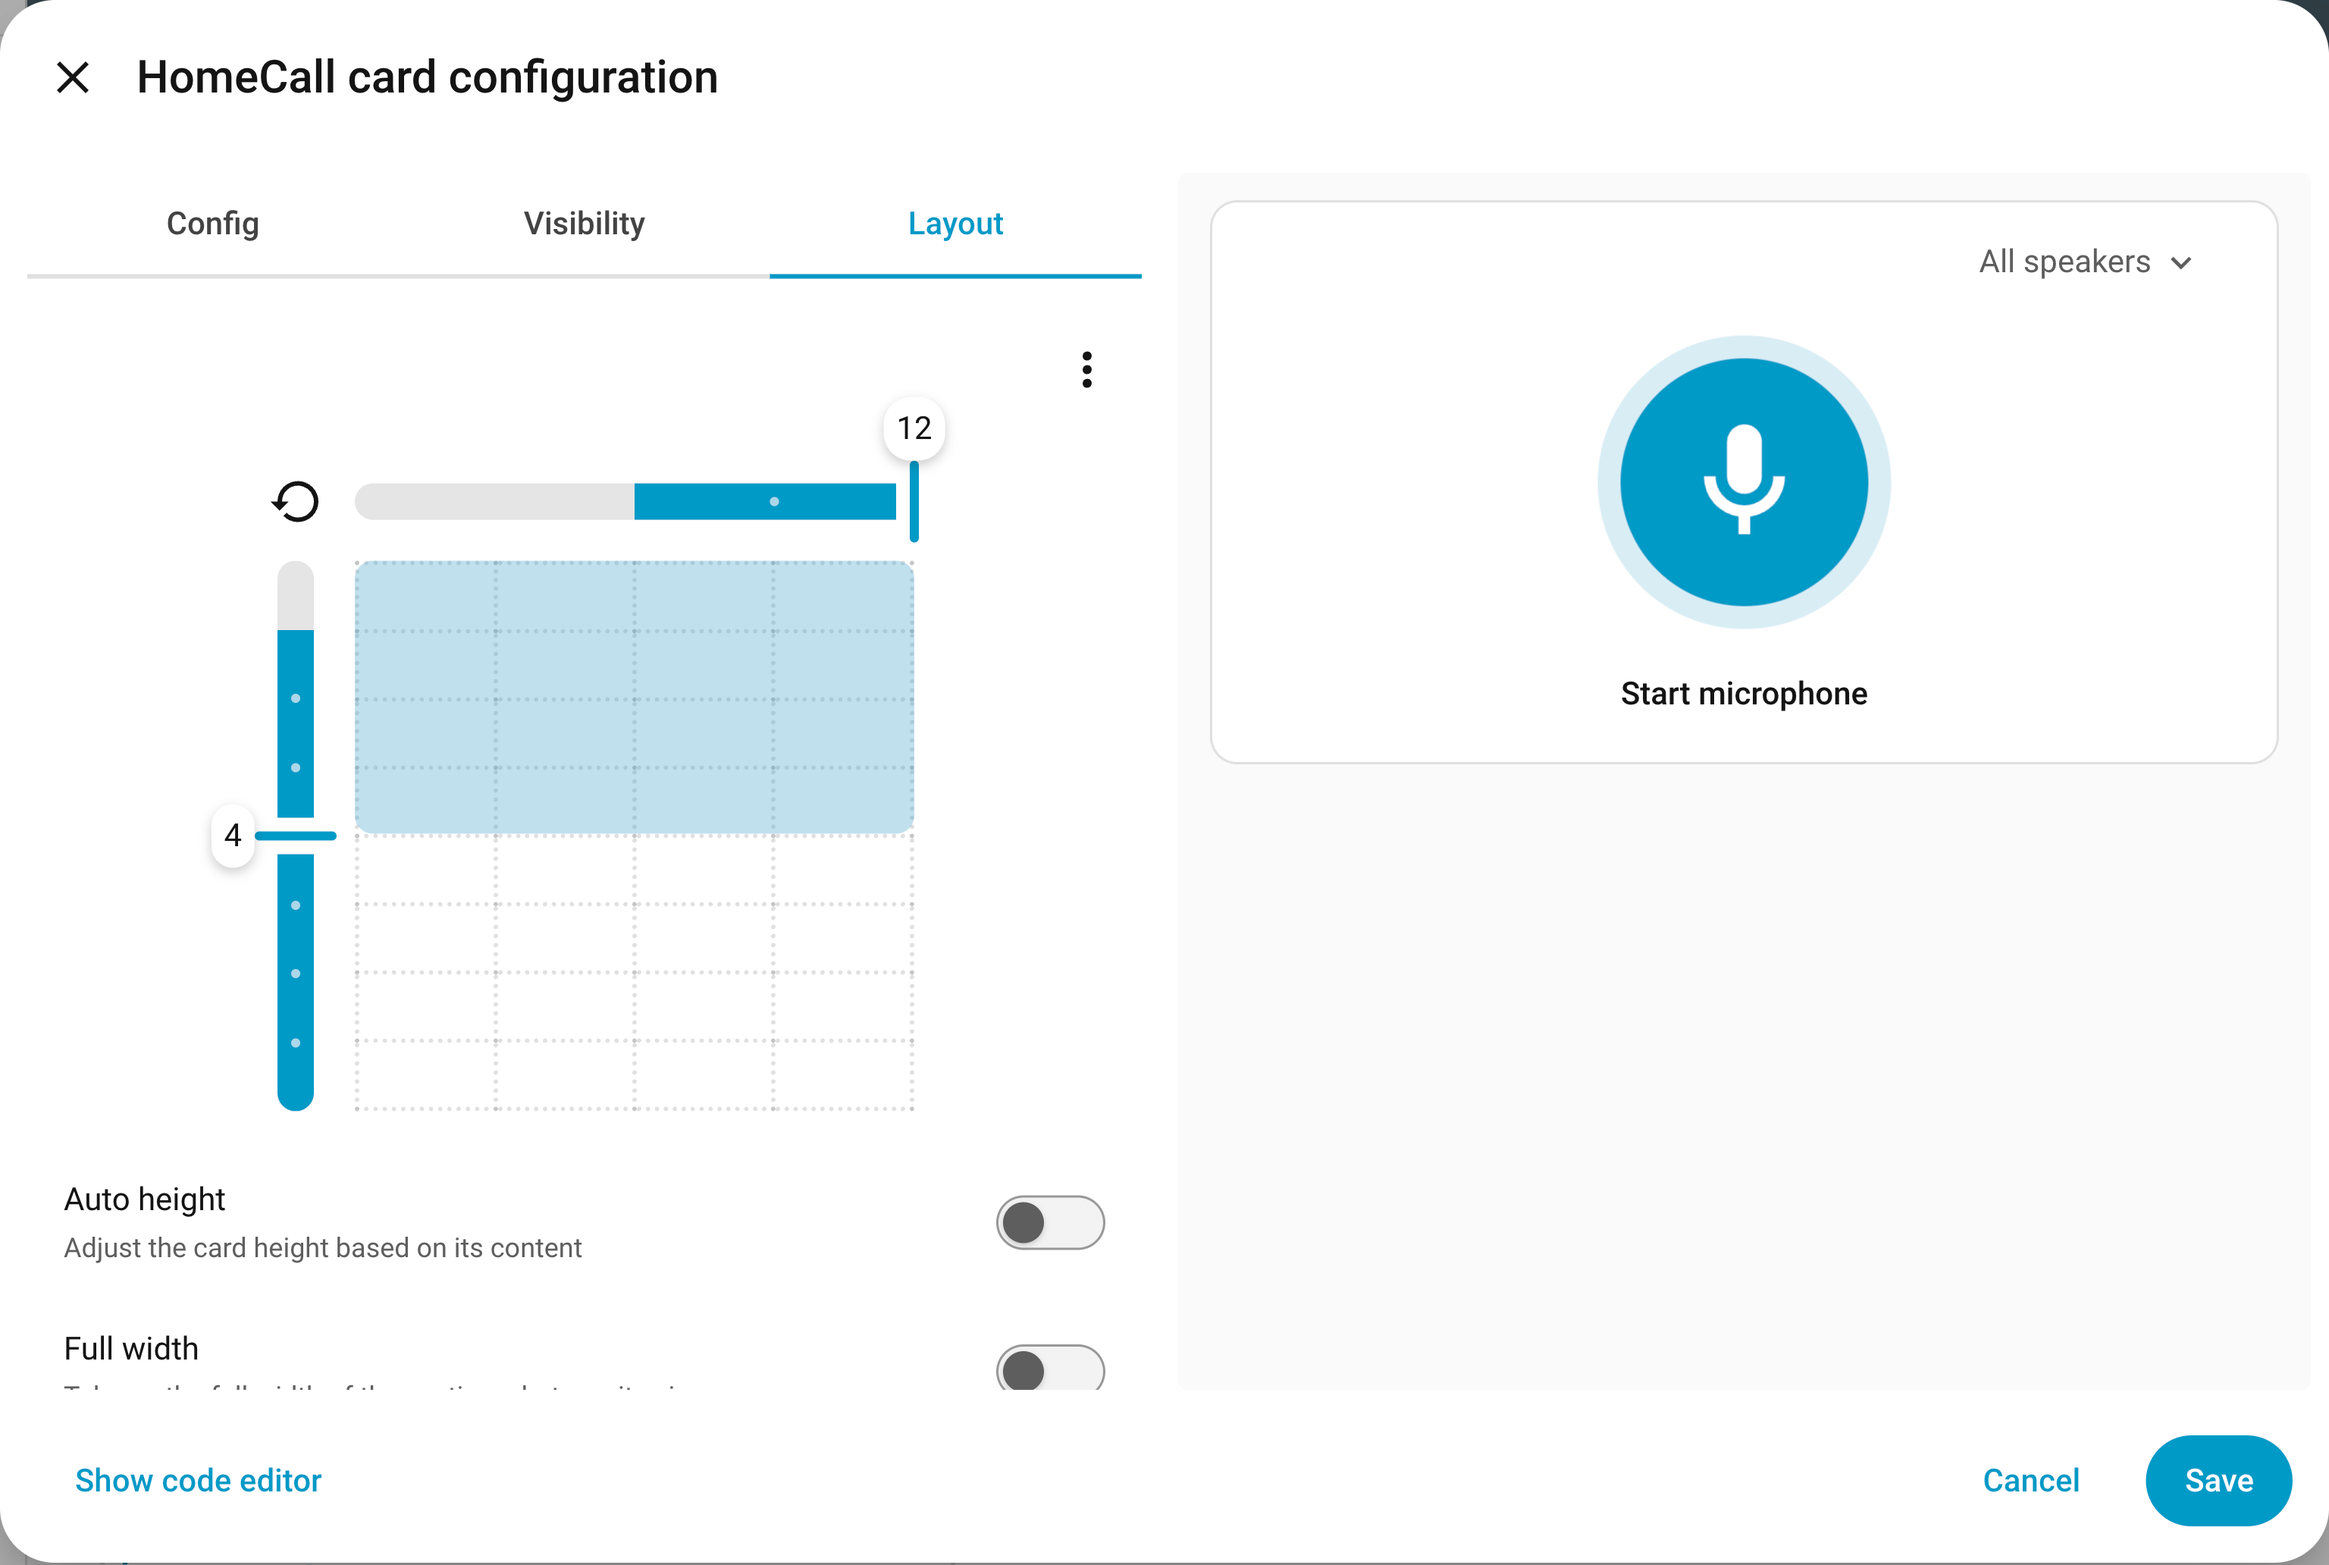
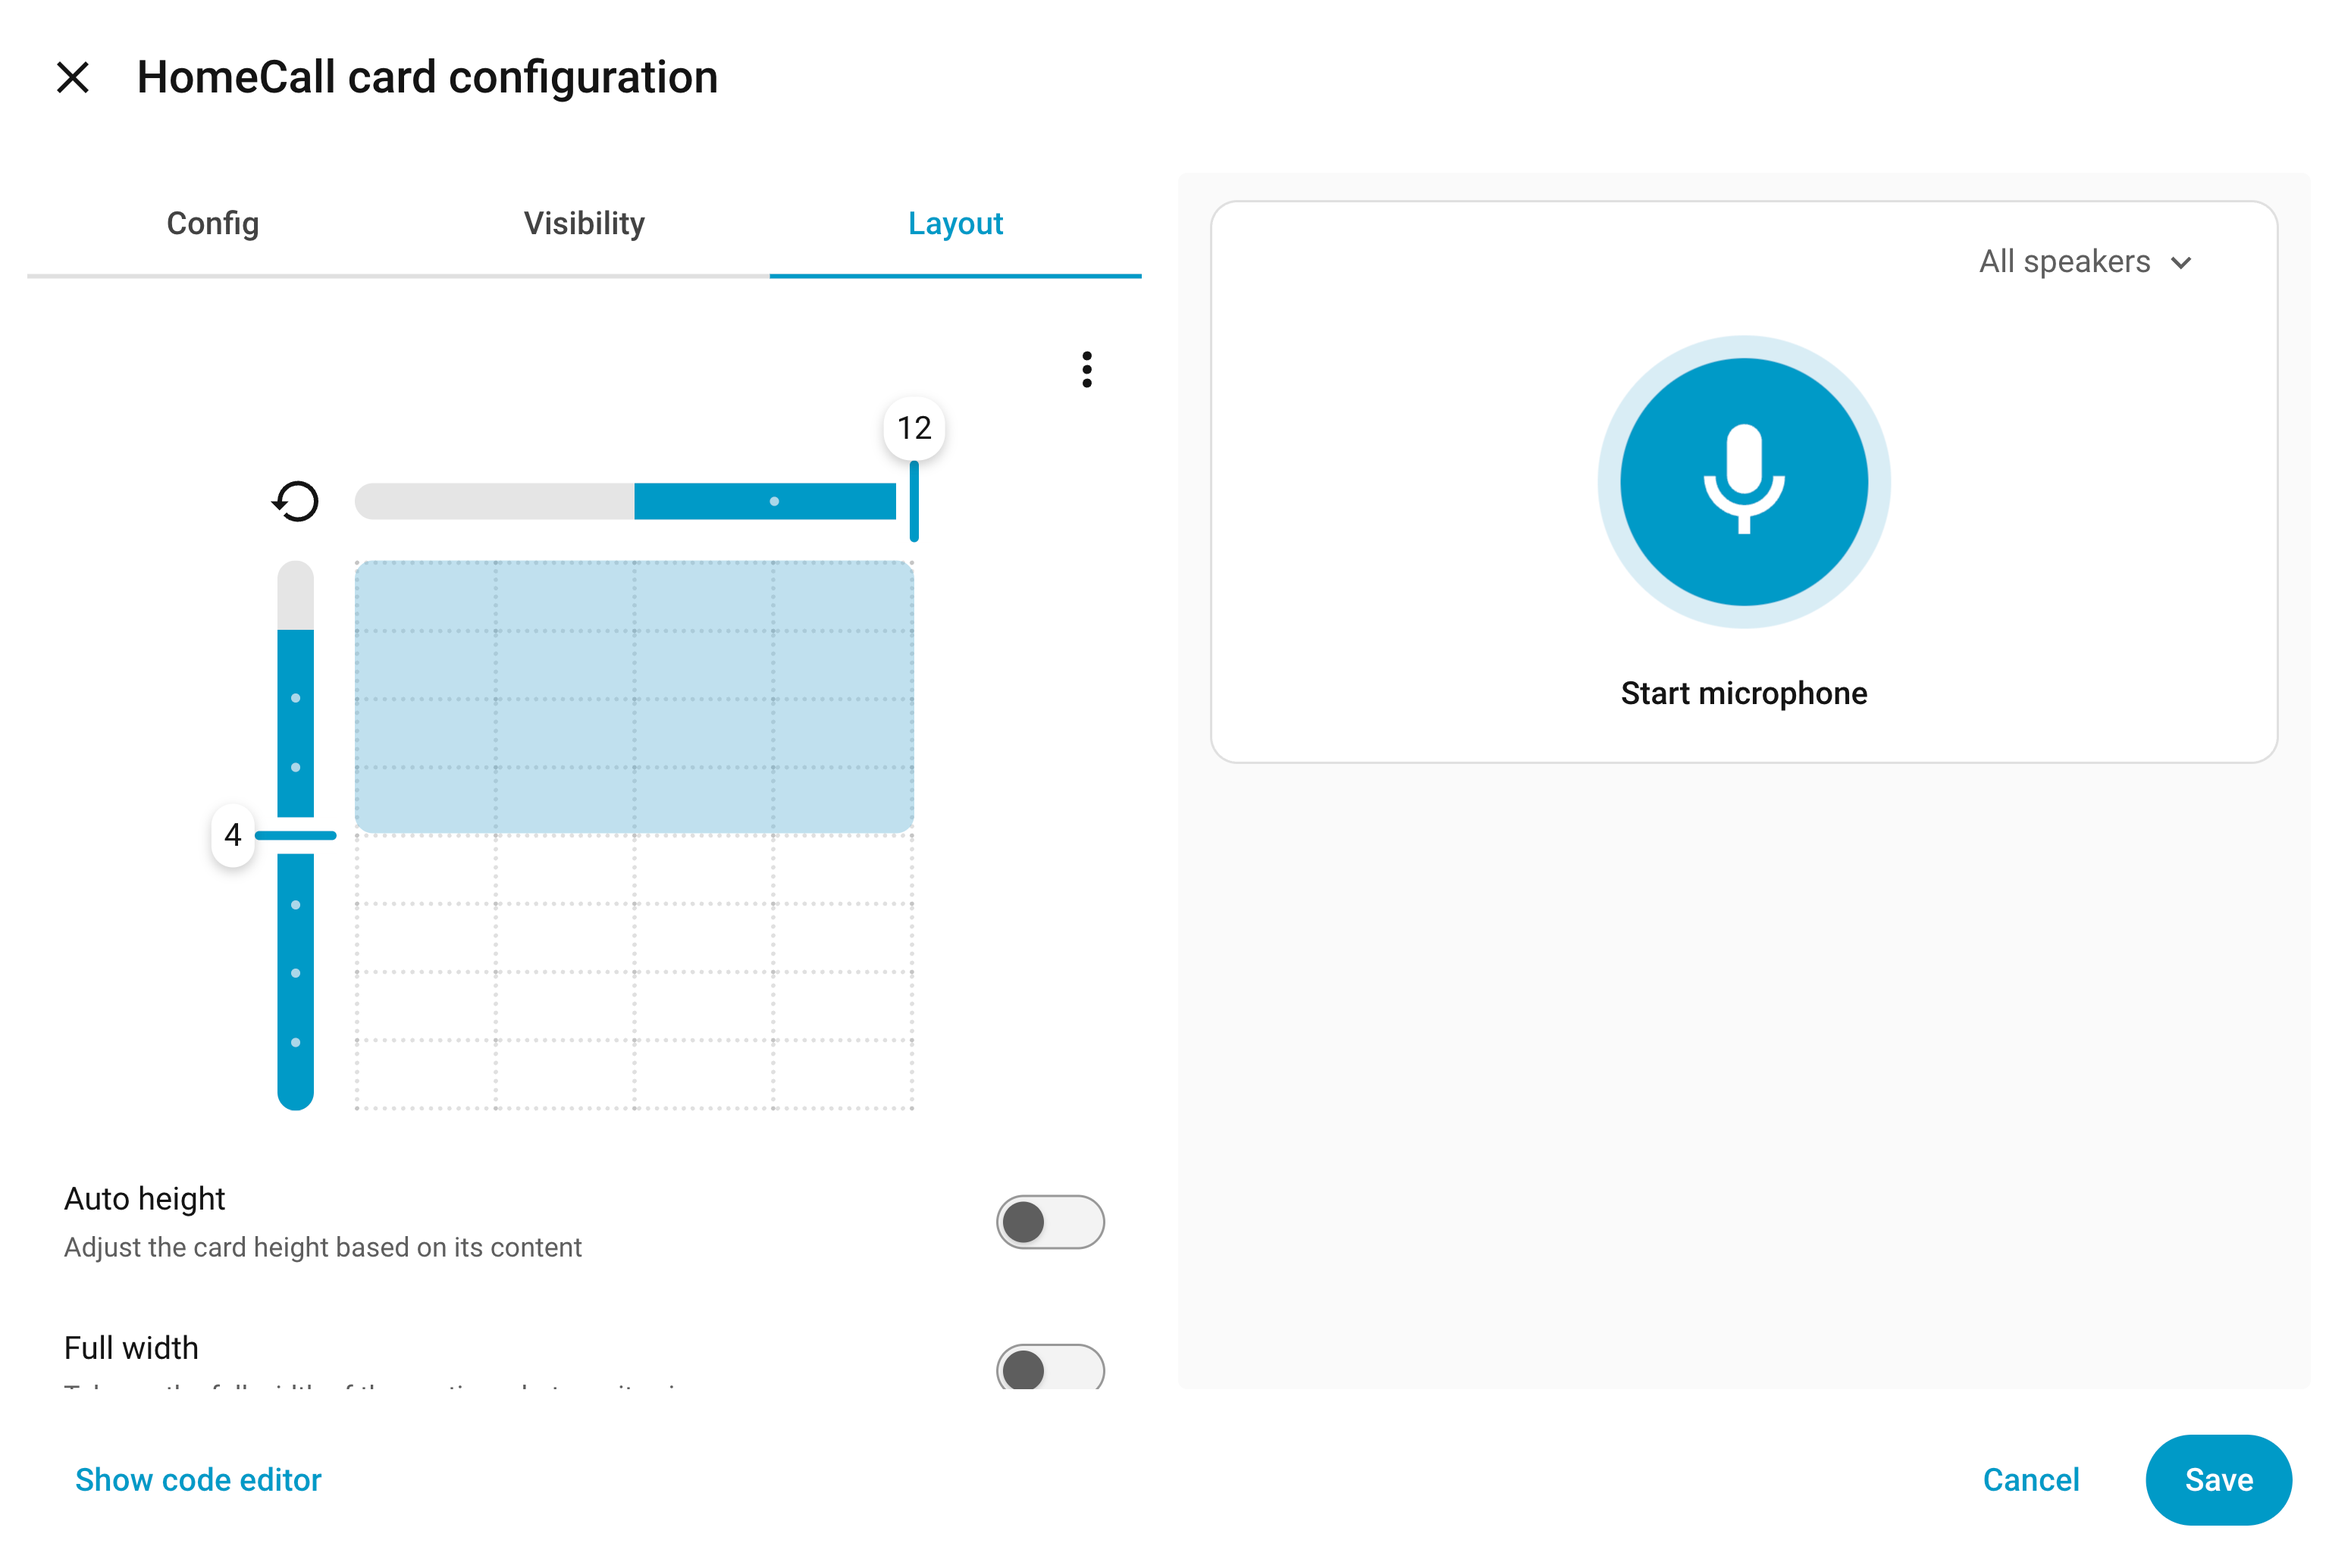
Combine editor screenshots with matching presentation

diff --git a/README.md b/README.md
@@ -42,13 +42,9 @@ Captured in Home Assistant using the card editor’s live preview and real micro
 
 ![HomeCall Card in a compact dashboard row and with the expanded speaker picker open](docs/assets/ui-layouts.png)
 
-Configure speaker selection, default recipients, and diagnostics in the visual editor.
+Configure recipients, diagnostics, and card size in the visual editor.
 
-![HomeCall Card visual editor options](docs/assets/ui-editor.png)
-
-Choose the card’s width and height in the Layout tab.
-
-![HomeCall Card layout editor with a larger card preview](docs/assets/ui-editor-layout.png)
+![HomeCall Card configuration and layout editor](docs/assets/ui-editor-combined.png)
 
 ## Install
 
